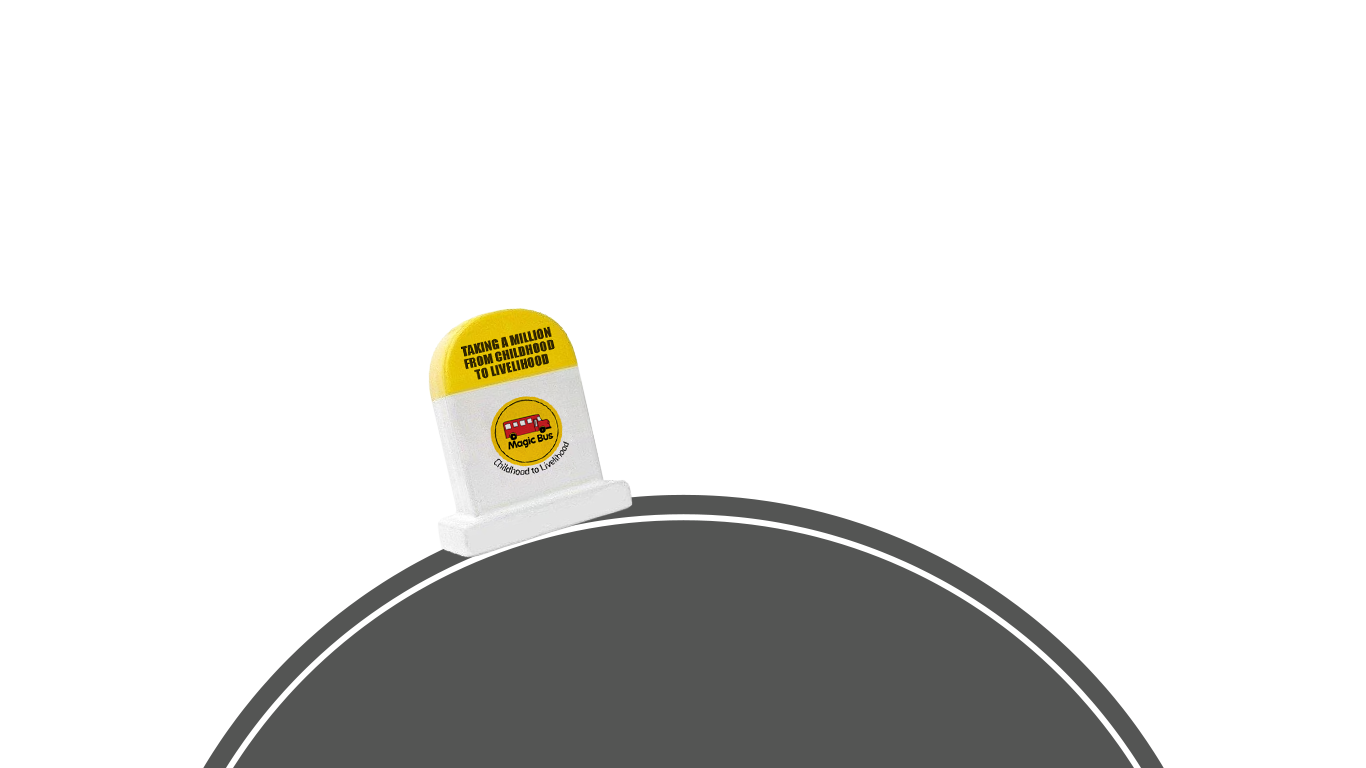
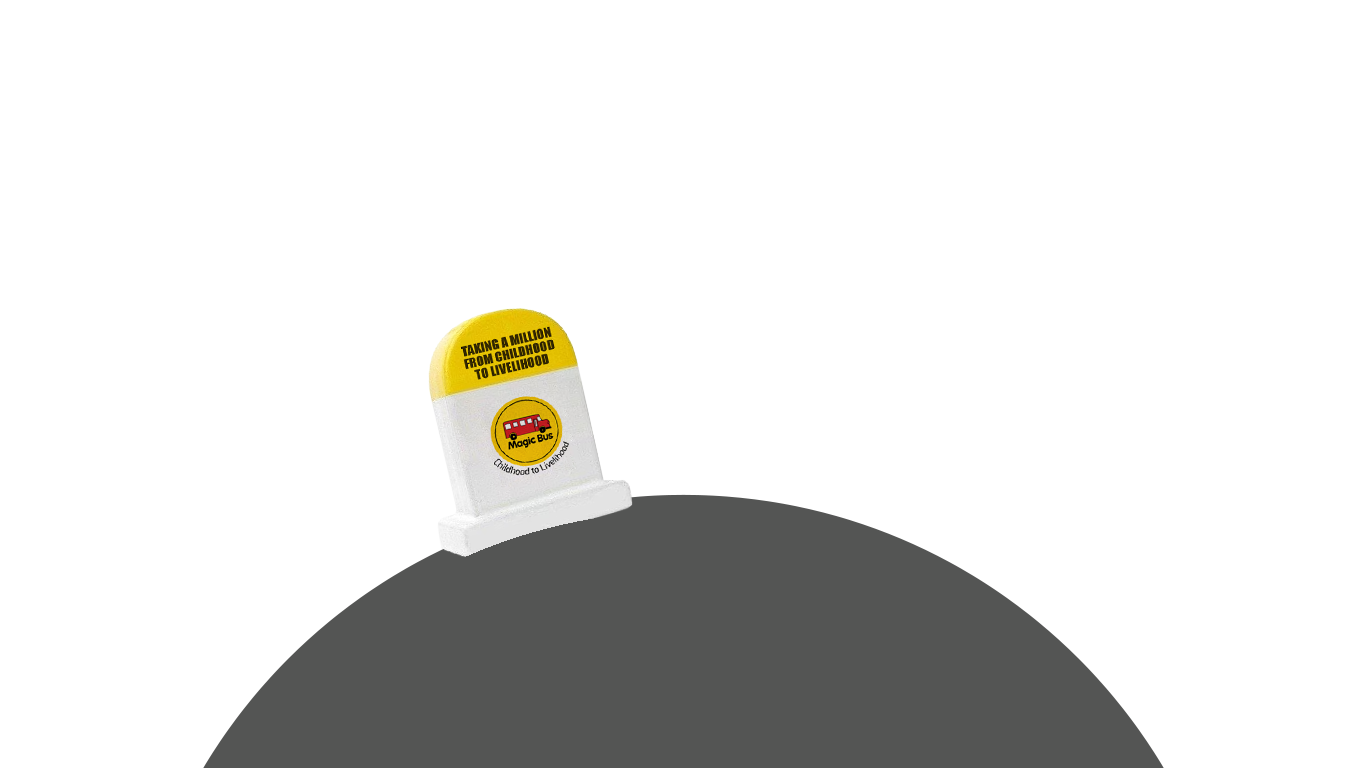
woman journey

diff --git a/src/components/programmes/JourneyStory.jsx b/src/components/programmes/JourneyStory.jsx
@@ -5,7 +5,7 @@ import { RotateCcw } from "lucide-react";
 /* "From Childhood to Livelihood": the eight layers of the journey artwork, stacked exactly as in the approved layout
    (all are 1366 x 768 transparent images, so every layer fills the same frame). Back to front:
 
-   03 sky  >  04 clouds  >  06 field  >  08 shop  >  05 woman (before)  >  07 woman (after)  >  01 road + milestone  >  02 bus
+   03 sky  >  04 clouds  >  06 field  >  08 shop  >  05 woman (before)  >  07 woman (after)  >  01 road + milestone  >  road stripe  >  02 bus
 
    The hill (road + milestone) is in front of the scene and the bus is in front of the hill. The finished scene is
    exactly the approved picture: the bus parked at the top of the hill with half of it under the white line.
@@ -42,6 +42,11 @@ function busTransform(t) {
 const FIELD_EDGE = "linear-gradient(to right, #000 var(--fe), transparent calc(var(--fe) + 7%))";
 const fieldMask = { WebkitMaskImage: FIELD_EDGE, maskImage: FIELD_EDGE };
 
+/* the white brush-stroke line on the road. It is shown through a dash pattern that circles the centre of the hill
+   (--a is the turn, in degrees), so the line looks like it is running under the bus. */
+const DASH = "repeating-conic-gradient(from var(--a) at 50% 137.04%, #000 0deg 7deg, transparent 7deg 10deg)";
+const stripeMask = { WebkitMaskImage: DASH, maskImage: DASH };
+
 const LAYERS = [
   { id: "sky", src: "/journey/03-sky.webp" },
   { id: "clouds", src: "/journey/04-clouds.webp" },
@@ -50,6 +55,7 @@ const LAYERS = [
   { id: "before", src: "/journey/05-woman-before.webp", origin: "41% 90%" },
   { id: "after", src: "/journey/07-woman-after.webp", origin: "58.6% 85%" },
   { id: "road", src: "/journey/01-road.webp" },
+  { id: "stripe", src: "/journey/01b-road-stripe.webp", style: stripeMask },
   { id: "bus", src: "/journey/02-bus.webp" },
 ];
 
@@ -102,6 +108,9 @@ export default function JourneyStory({ title, text }) {
       go(target, { opacity: [0, 1] }, { delay, duration: 0.35, ease: "easeOut" });
     };
 
+    // the road line keeps running round the hill (moving left, against the bus) for as long as the scene is on
+    go(el("stripe"), { "--a": ["0deg", "-10deg"] }, { duration: 1.1, ease: "linear", repeat: Infinity });
+
     // 1. at once: the sky opens from the top of the hill, clouds fade in, then the field and the left woman pop up
     go(el("sky"), { clipPath: ["circle(0% at 50% 64.5%)", "circle(95% at 50% 64.5%)"] }, { delay: 0, duration: 1.3, ease: EASE_IO });
     go(el("clouds"), { opacity: [0, 1] }, { delay: 0.5, duration: 1.1, ease: "easeOut" });
@@ -133,7 +142,8 @@ export default function JourneyStory({ title, text }) {
 
   /* where every layer starts (the finished scene is shown straight away for reduced motion) */
   const start = (id) => {
-    if (reduce) return id === "field" ? { "--fe": "100%" } : {};
+    if (reduce) return id === "field" ? { "--fe": "100%" } : id === "stripe" ? { WebkitMaskImage: "none", maskImage: "none" } : {};
+    if (id === "stripe") return { "--a": "0deg" };
     if (id === "sky") return { clipPath: "circle(0% at 50% 64.5%)" };
     if (id === "bus") return { transform: busTransform(0), transformOrigin: `${(BUS_ANCHOR[0] / W) * 100}% ${(BUS_ANCHOR[1] / H) * 100}%`, willChange: "transform" };
     if (id === "road") return {};
